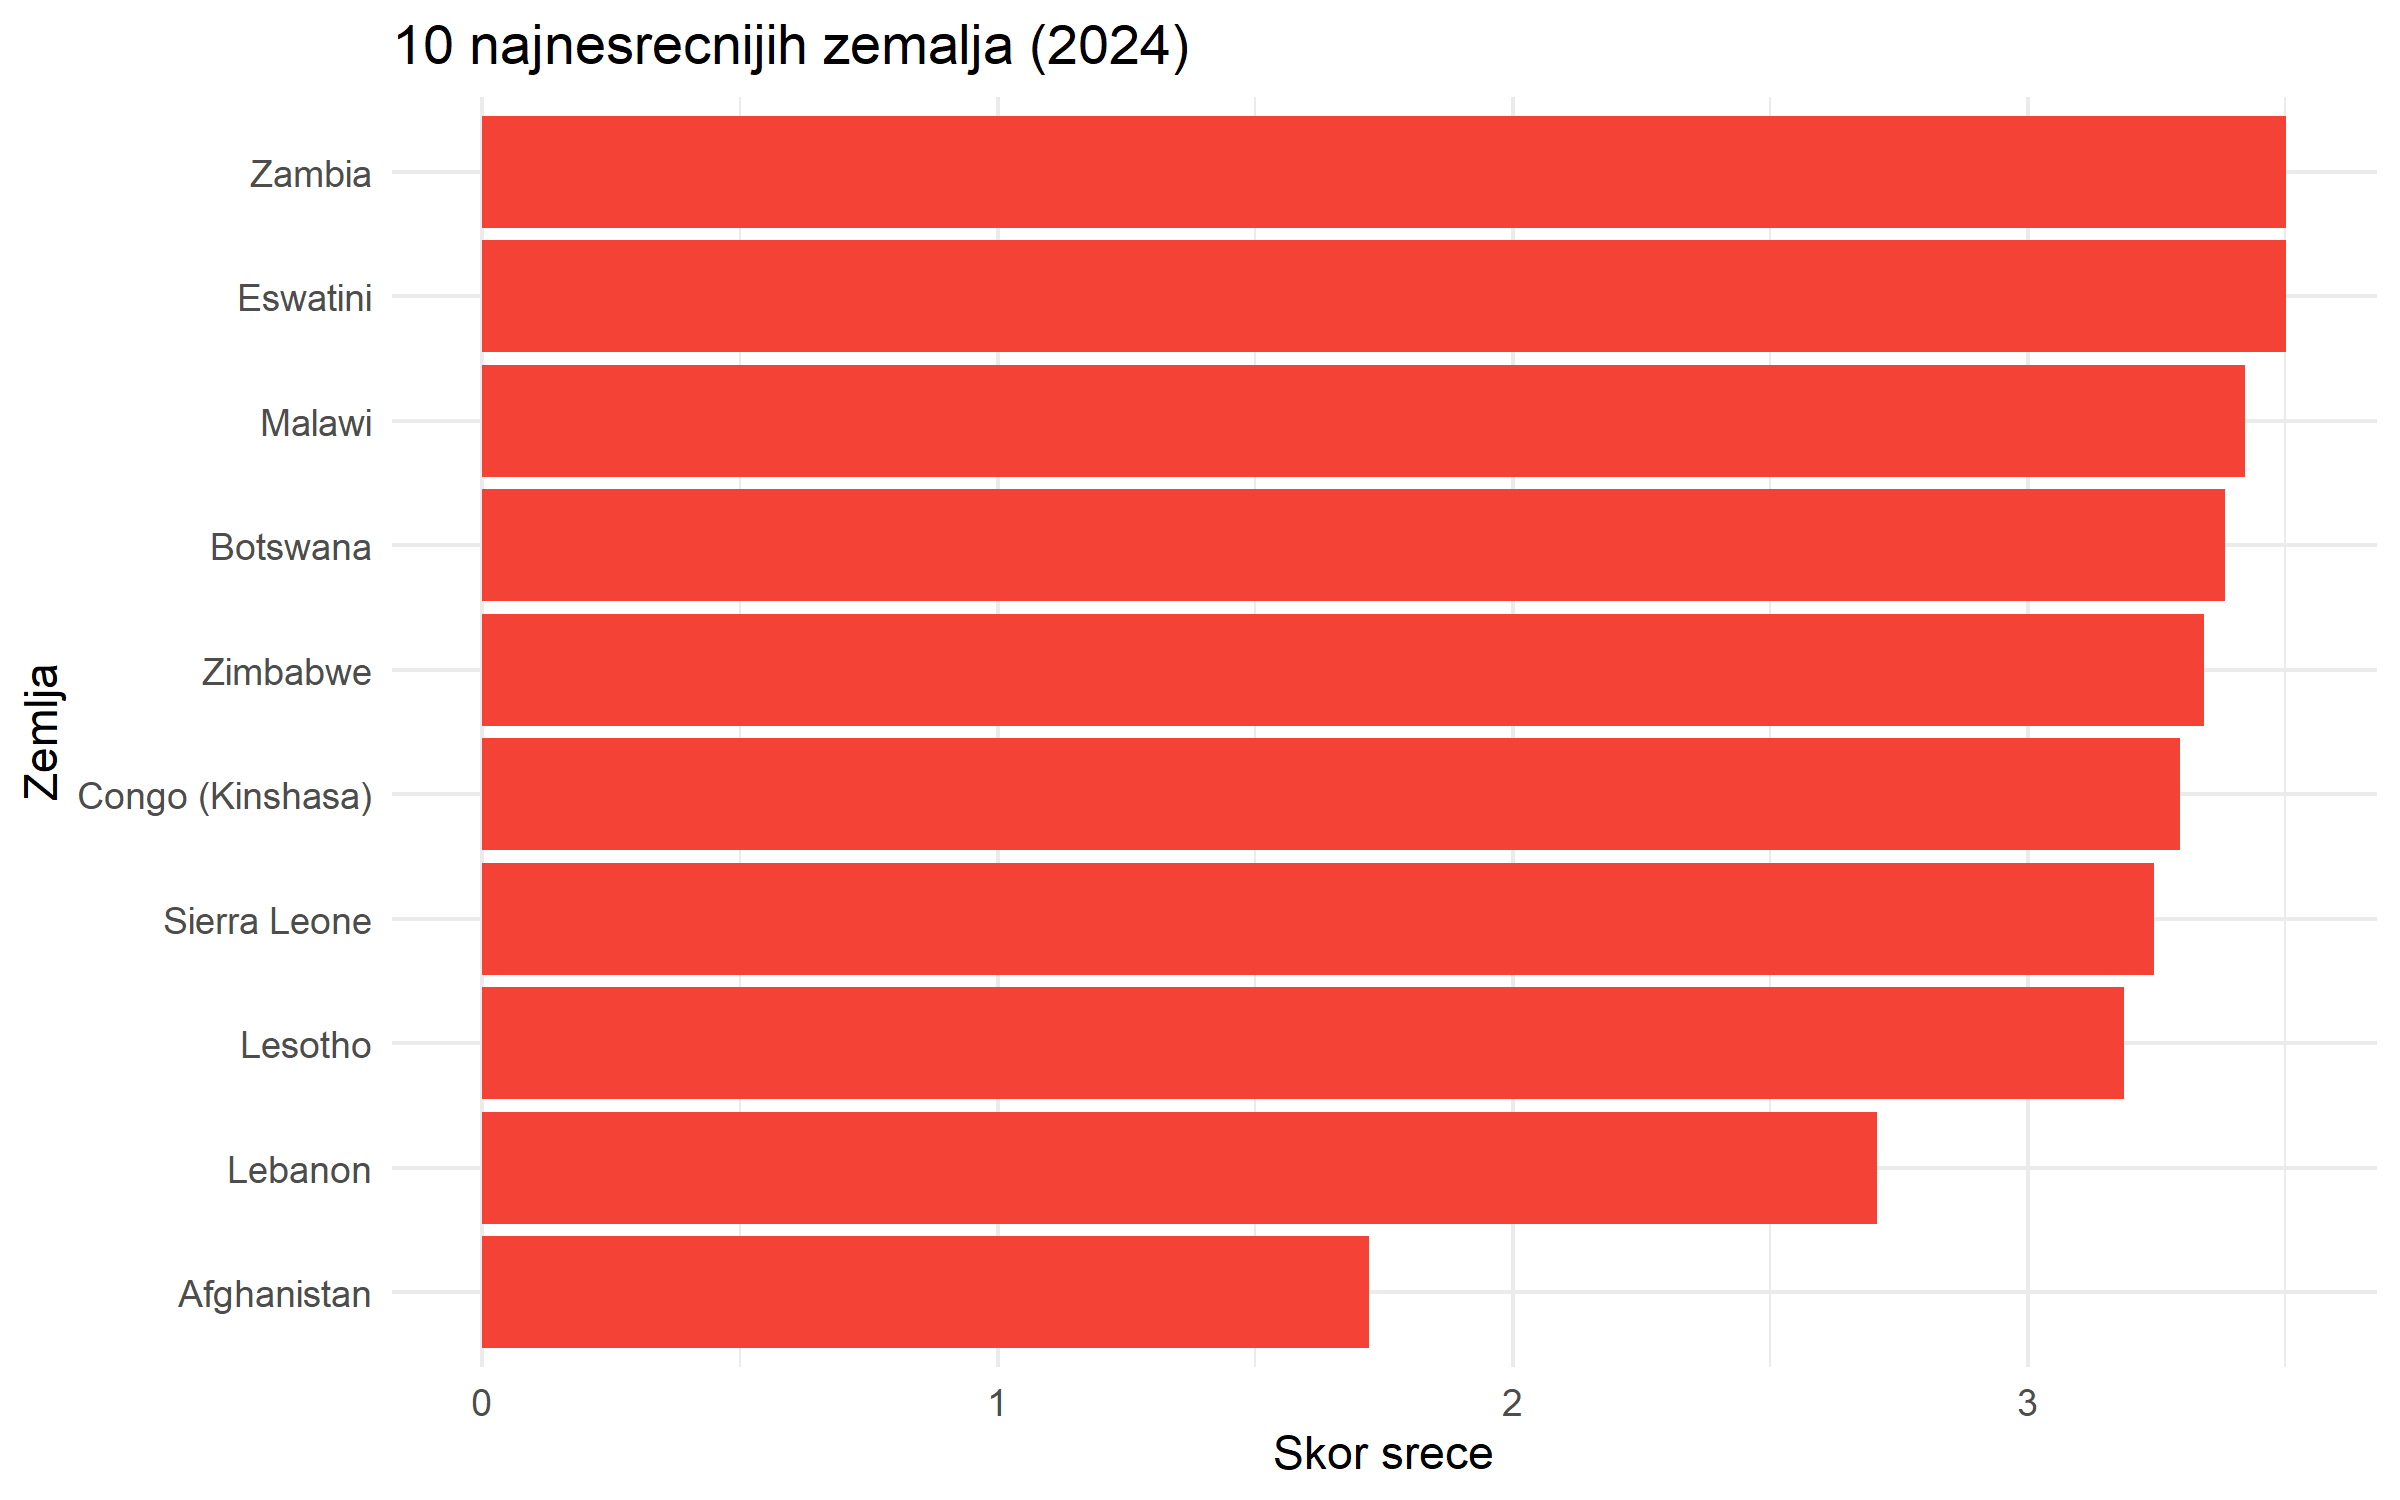
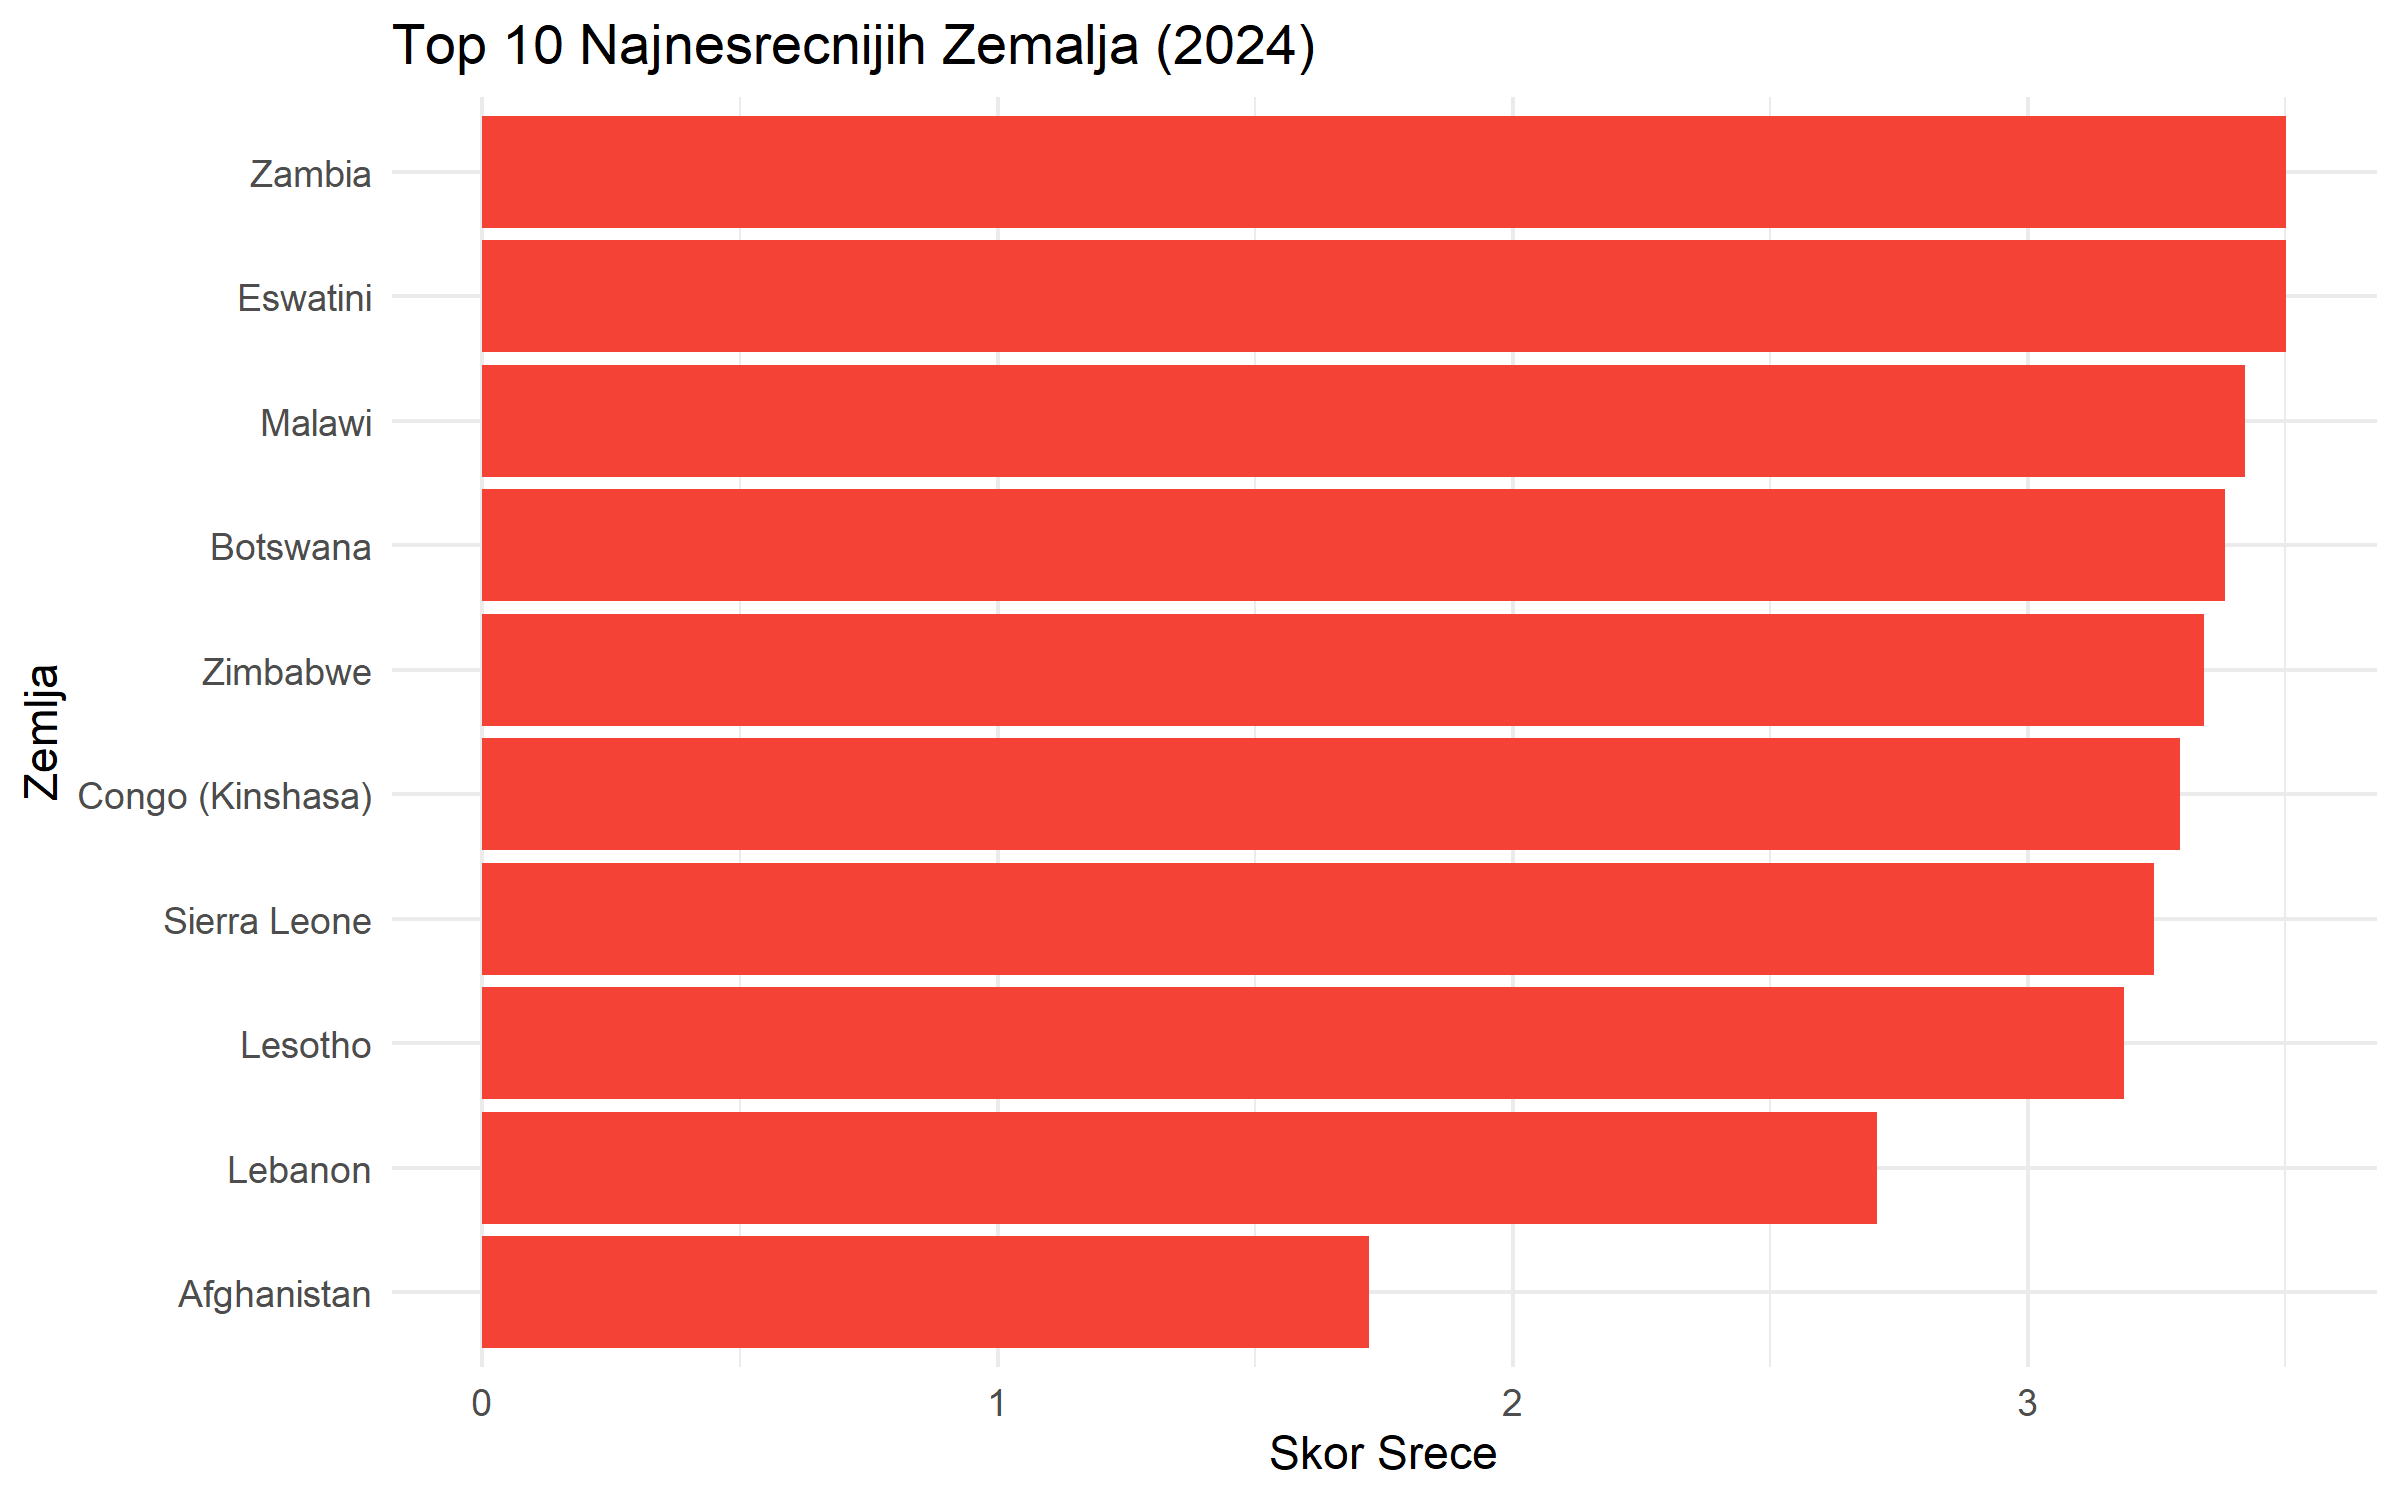
Dodata linearna regresija, 2 Modela

Changed region(s): [[0.1562, 0.0, 0.5625, 0.0613], [0.5312, 0.9507, 0.625, 0.9813]]

diff --git a/README.md b/README.md
@@ -1,2 +1,27 @@
 # RDN-Analiza-Vizualizacija-Podataka-JovanGaric
-Analiza srece u svetu sa World Happiness Report datasetom.
+
+Analiza faktora koji uticu na srecu stanovnistva u 140 zemalja sveta, zasnovana na World Happiness Report 2024. 
+Cilj zadatka je utvrditi koji politicki i ekonomski faktori najvise doprinose sreci jedne zemlje, 
+sa prikazom i na poziciju Srbije.
+
+Dataset:
+
+Izvor: Kaggle - World Happiness Report 2024
+Broj zemalja: 140 (nakon ciscenja)
+Kolone: Ladder.score, Log.GDP.per.capita, Social.support,
+Freedom.to.make.life.choices, Generosity, Perceptions.of.corruption, Healthy.life.expectancy
+
+Rezultati:
+
+Eksploracija
+Srbija se nalazi na 37. mestu sa skorom 6.411. Na scatter plotu BDP vs sreca, 
+Srbija se nalazi iznad regresione linije, sto znaci da je srechnija nego sto njen BDP predvidhja.
+
+Linearna regresija:
+
+Model sa samo BDP-om objasnjava 55% varijanse srece (R^2=0.55)
+Model sa svim faktorima objasnjava 79% (R^2=0.79)
+Sloboda ima najveci koeficijent (2.02), BDP najmanji (0.47)
+RMSE = 0.47
+
+Zakljucak: Sloboda izbora i socijalna podrska predvidjaju srecu bolje od samog BDP-a.
